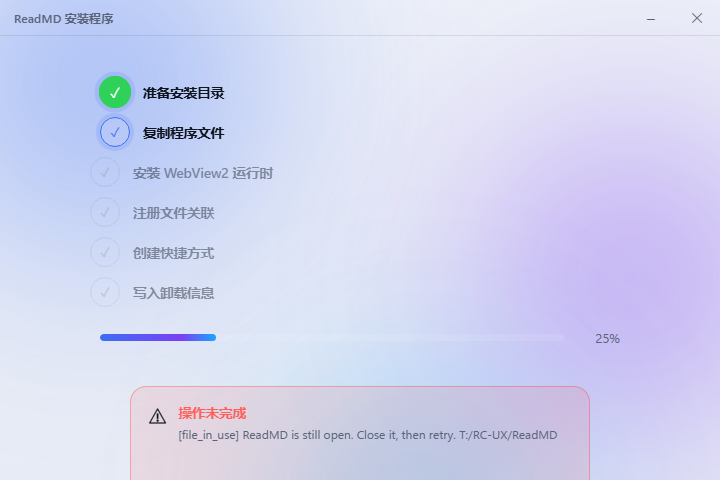
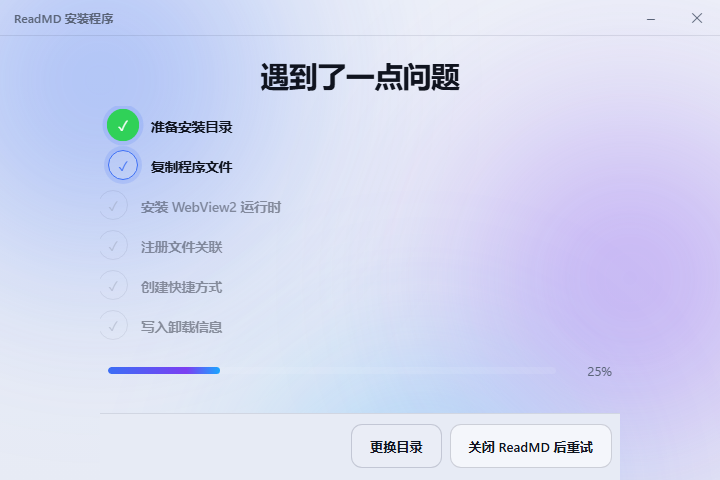
test: verify installer recovery UX fix

diff --git a/docs/handoffs/v2.2.4.md b/docs/handoffs/v2.2.4.md
@@ -55,7 +55,7 @@
 
 | # | 角色原话（有截图） | 分类 | 务实判断 | 结果 |
 | --- | --- | --- | --- | --- |
-| 1 | “它让我先关掉 ReadMD 再重试，可我连‘重试’在哪儿都看不见；窗口就这么高，我还以为卡死了。” [截图](v2.2.4-ux/installer-file-in-use-recovery-720x480.png) | RED | 720×480 文件占用错误卡的恢复操作在可视区域下方，核心恢复动作不可见；不是角色噪音，任何紧凑屏幕用户都会被阻断。 | 未改代码。既定范围内建议：错误页改为可滚动，或将“关闭 ReadMD 后重试”固定在卡片可视区。 |
+| 1 | “它让我先关掉 ReadMD 再重试，可我连‘重试’在哪儿都看不见；窗口就这么高，我还以为卡死了。” [复测截图](v2.2.4-ux/installer-file-in-use-recovery-720x480.png) | RED（已修复） | 原问题为 720×480 文件占用错误卡的恢复操作在可视区域下方。修复 `dbb877d` 后按同一桥接 mock/720×480 场景复测：“关闭 ReadMD 后重试”按钮边界为 y=424–468，完整可见、可点击，点击后进入“安装完成”；控制台无错误。 | 复测通过；最终未解决 RED/GREEN=0。 |
 | 2 | “都说要管理员权限了，下面的开始安装还是灰的；我该点‘更改’还是找谁给权限？” [截图](v2.2.4-ux/installer-permission-preflight-720x480.png) | YELLOW | `preflight_install` 返回 `elevate`，但预检 UI 只禁用“开始安装”且未暴露管理员重试入口；默认目录通常不触发，仍会让主动选受保护目录的用户犹豫。 | 记录，不在最终 RC 临时扩范围修复。后续可在预检提示旁显式给出“以管理员身份重试”。 |
 
 其余体验没有新增可操作投诉：欢迎与选项页可读；剪贴板读取仅在点击后发生，预览后可直接“保存 Markdown”（[预览](v2.2.4-ux/ai-clipboard-preview-720x480.png)、[保存](v2.2.4-ux/ai-import-save-720x480.png)）。未为无痛点创建票据或改代码。
